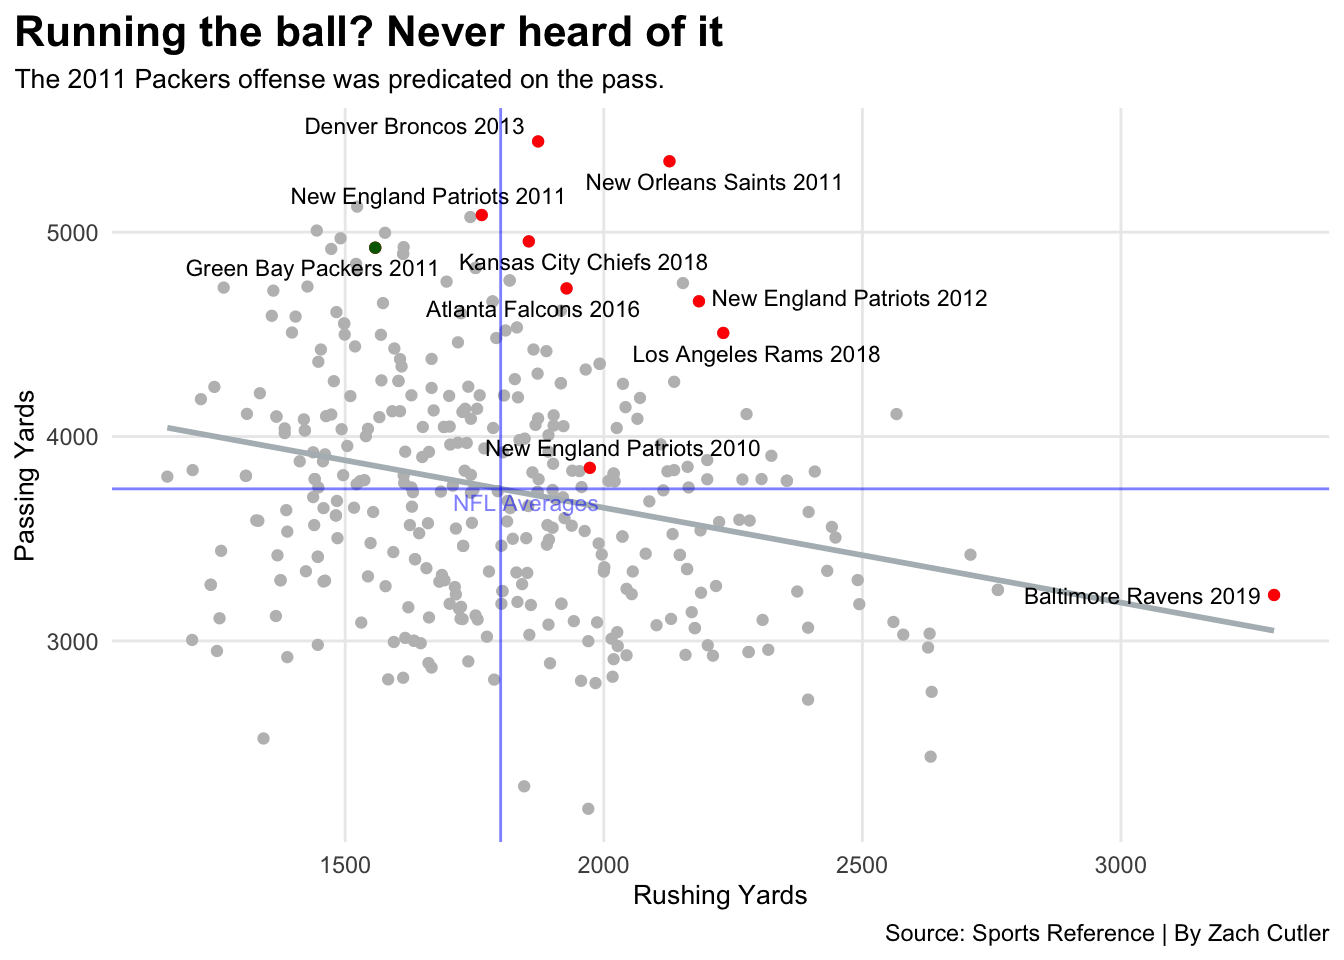
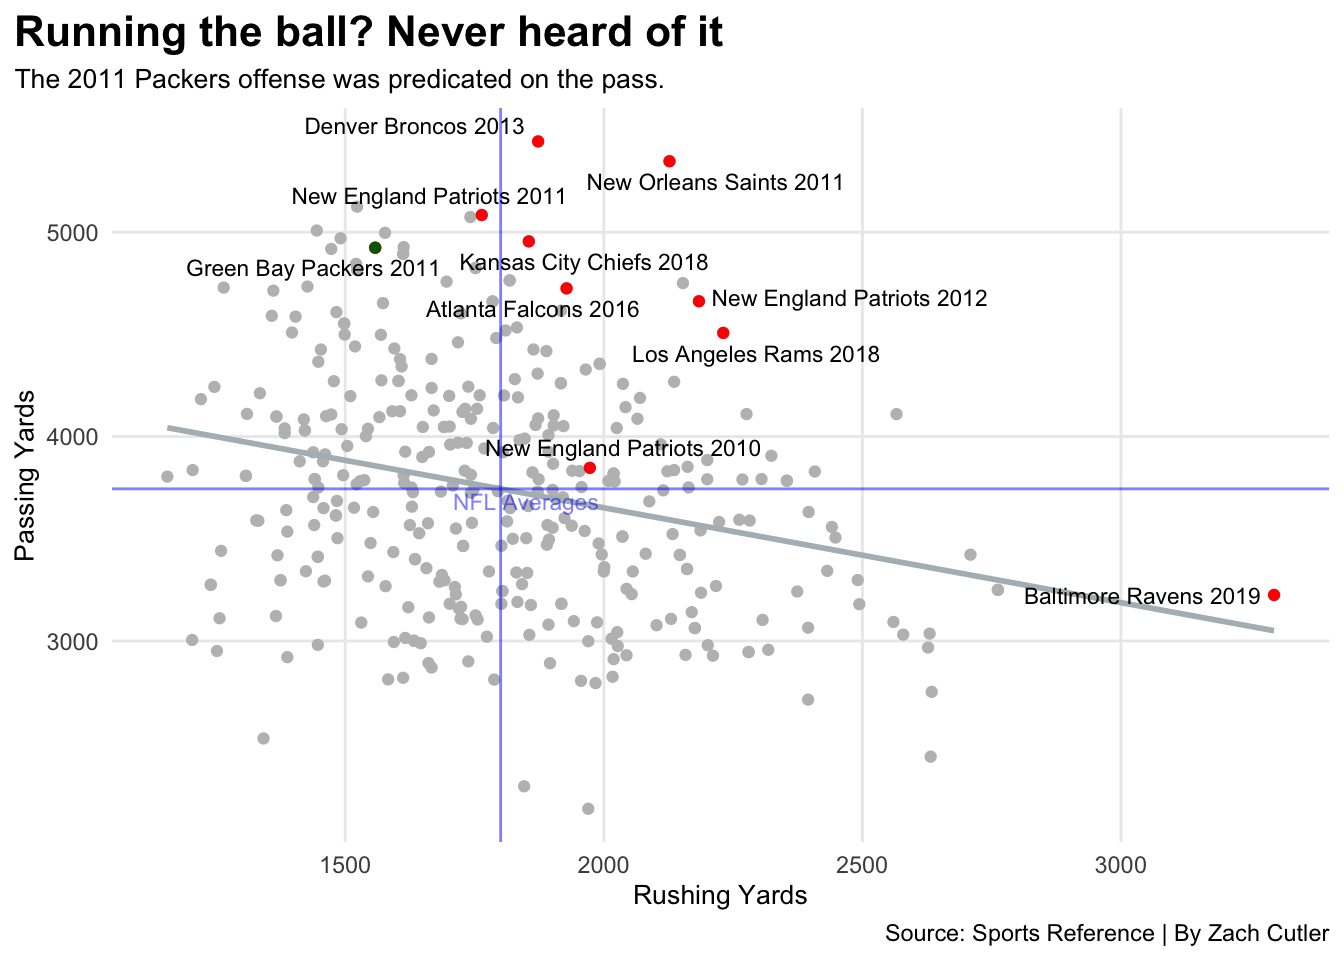
new
updated

diff --git a/posts/where-did-the-2011-packers-rank-among-the-best-offenses-of-the-2010s/index.html b/posts/where-did-the-2011-packers-rank-among-the-best-offenses-of-the-2010s/index.html
@@ -401,7 +401,7 @@ code span.wa { color: #60a0b0; font-weight: bold; font-style: italic; } /* Warni
 <span id="cb2-16"><a href="#cb2-16" aria-hidden="true" tabindex="-1"></a>    <span class="at">color=</span><span class="st">"dark green"</span>) <span class="sc">+</span></span>
 <span id="cb2-17"><a href="#cb2-17" aria-hidden="true" tabindex="-1"></a>  <span class="fu">geom_text_repel</span>(</span>
 <span id="cb2-18"><a href="#cb2-18" aria-hidden="true" tabindex="-1"></a>      <span class="at">data=</span>topscore, </span>
-<span id="cb2-19"><a href="#cb2-19" aria-hidden="true" tabindex="-1"></a>    <span class="fu">aes</span>(<span class="at">x=</span>RZPct, <span class="at">y=</span>ThirdPer, <span class="at">label=</span>teamseason), <span class="at">size=</span><span class="dv">3</span></span>
+<span id="cb2-19"><a href="#cb2-19" aria-hidden="true" tabindex="-1"></a>    <span class="fu">aes</span>(<span class="at">x=</span>RZPct, <span class="at">y=</span>ThirdPer, <span class="at">label=</span>teamseason), <span class="at">size=</span><span class="fl">2.5</span></span>
 <span id="cb2-20"><a href="#cb2-20" aria-hidden="true" tabindex="-1"></a>  ) <span class="sc">+</span> </span>
 <span id="cb2-21"><a href="#cb2-21" aria-hidden="true" tabindex="-1"></a>  <span class="fu">geom_vline</span>(<span class="at">xintercept =</span><span class="fl">54.29688</span>, <span class="at">color=</span><span class="st">"blue"</span>, <span class="at">alpha=</span>.<span class="dv">5</span>) <span class="sc">+</span></span>
 <span id="cb2-22"><a href="#cb2-22" aria-hidden="true" tabindex="-1"></a>  <span class="fu">geom_hline</span>(<span class="at">yintercept =</span> <span class="fl">38.88267</span>, <span class="at">color=</span><span class="st">"blue"</span>,<span class="at">alpha=</span>.<span class="dv">5</span>) <span class="sc">+</span></span>
@@ -415,7 +415,7 @@ code span.wa { color: #60a0b0; font-weight: bold; font-style: italic; } /* Warni
 <span id="cb2-30"><a href="#cb2-30" aria-hidden="true" tabindex="-1"></a>    <span class="at">plot.title.position =</span> <span class="st">"plot"</span></span>
 <span id="cb2-31"><a href="#cb2-31" aria-hidden="true" tabindex="-1"></a>    ) <span class="sc">+</span></span>
 <span id="cb2-32"><a href="#cb2-32" aria-hidden="true" tabindex="-1"></a>  <span class="fu">labs</span>(</span>
-<span id="cb2-33"><a href="#cb2-33" aria-hidden="true" tabindex="-1"></a>    <span class="at">title=</span> <span class="st">"The 2011 Packers were efficient in the red zone and on third down"</span>,</span>
+<span id="cb2-33"><a href="#cb2-33" aria-hidden="true" tabindex="-1"></a>    <span class="at">title=</span> <span class="st">"The 2011 Packers were efficient in the red zone and on third</span><span class="sc">\n</span><span class="st">down"</span>,</span>
 <span id="cb2-34"><a href="#cb2-34" aria-hidden="true" tabindex="-1"></a>    <span class="at">subtitle=</span> <span class="st">"Yet there were multiple teams more efficent than them."</span>, </span>
 <span id="cb2-35"><a href="#cb2-35" aria-hidden="true" tabindex="-1"></a>    <span class="at">caption =</span> <span class="st">"Source: Sports Reference | By Zach Cutler"</span>,</span>
 <span id="cb2-36"><a href="#cb2-36" aria-hidden="true" tabindex="-1"></a>    <span class="at">x =</span> <span class="st">"Red zone scoring percentage"</span>,</span>
@@ -477,7 +477,7 @@ code span.wa { color: #60a0b0; font-weight: bold; font-style: italic; } /* Warni
 <span id="cb4-7"><a href="#cb4-7" aria-hidden="true" tabindex="-1"></a>  ) <span class="sc">+</span></span>
 <span id="cb4-8"><a href="#cb4-8" aria-hidden="true" tabindex="-1"></a>  <span class="fu">geom_vline</span>(<span class="at">xintercept =</span><span class="fl">1800.56</span>, <span class="at">color=</span><span class="st">"blue"</span>, <span class="at">alpha=</span>.<span class="dv">5</span>) <span class="sc">+</span></span>
 <span id="cb4-9"><a href="#cb4-9" aria-hidden="true" tabindex="-1"></a>  <span class="fu">geom_hline</span>(<span class="at">yintercept =</span> <span class="fl">3744.188</span>  , <span class="at">color=</span><span class="st">"blue"</span>,<span class="at">alpha=</span>.<span class="dv">5</span>) <span class="sc">+</span></span>
-<span id="cb4-10"><a href="#cb4-10" aria-hidden="true" tabindex="-1"></a>  <span class="fu">geom_text</span>(<span class="fu">aes</span>(<span class="at">x=</span><span class="dv">1850</span>, <span class="at">y=</span><span class="dv">3680</span>), <span class="at">label=</span><span class="st">"NFL Averages"</span>, <span class="at">color=</span><span class="st">"blue"</span>, <span class="at">alpha=</span>.<span class="dv">5</span>, <span class="at">size=</span><span class="dv">3</span>)<span class="sc">+</span></span>
+<span id="cb4-10"><a href="#cb4-10" aria-hidden="true" tabindex="-1"></a>  <span class="fu">geom_text</span>(<span class="fu">aes</span>(<span class="at">x=</span><span class="dv">1850</span>, <span class="at">y=</span><span class="dv">3685</span>), <span class="at">label=</span><span class="st">"NFL Averages"</span>, <span class="at">color=</span><span class="st">"blue"</span>, <span class="at">alpha=</span>.<span class="dv">5</span>, <span class="at">size=</span><span class="dv">3</span>)<span class="sc">+</span></span>
 <span id="cb4-11"><a href="#cb4-11" aria-hidden="true" tabindex="-1"></a><span class="fu">theme_minimal</span>() <span class="sc">+</span></span>
 <span id="cb4-12"><a href="#cb4-12" aria-hidden="true" tabindex="-1"></a>   <span class="fu">theme</span>(</span>
 <span id="cb4-13"><a href="#cb4-13" aria-hidden="true" tabindex="-1"></a>    <span class="at">plot.title =</span> <span class="fu">element_text</span>(<span class="at">size =</span> <span class="dv">16</span>, <span class="at">face =</span> <span class="st">"bold"</span>),</span>

diff --git a/index.html b/index.html
@@ -164,7 +164,7 @@ ul.task-list li input[type="checkbox"] {
 
 <div class="quarto-listing quarto-listing-container-default" id="listing-listing">
 <div class="list quarto-listing-default">
-<div class="quarto-post image-right" data-index="0" data-categories="football,nfl,analysis" data-listing-date-sort="1669788000000" data-listing-file-modified-sort="1669996937759" data-listing-reading-time-sort="11.235">
+<div class="quarto-post image-right" data-index="0" data-categories="football,nfl,analysis" data-listing-date-sort="1669788000000" data-listing-file-modified-sort="1670015768980" data-listing-reading-time-sort="11.21">
 <div class="thumbnail">
 <p><a href="./posts/where-did-the-2011-packers-rank-among-the-best-offenses-of-the-2010s/index.html"> <img src="./posts/where-did-the-2011-packers-rank-among-the-best-offenses-of-the-2010s/image1.png" class="thumnail-image"> </a></p>
 </div>
